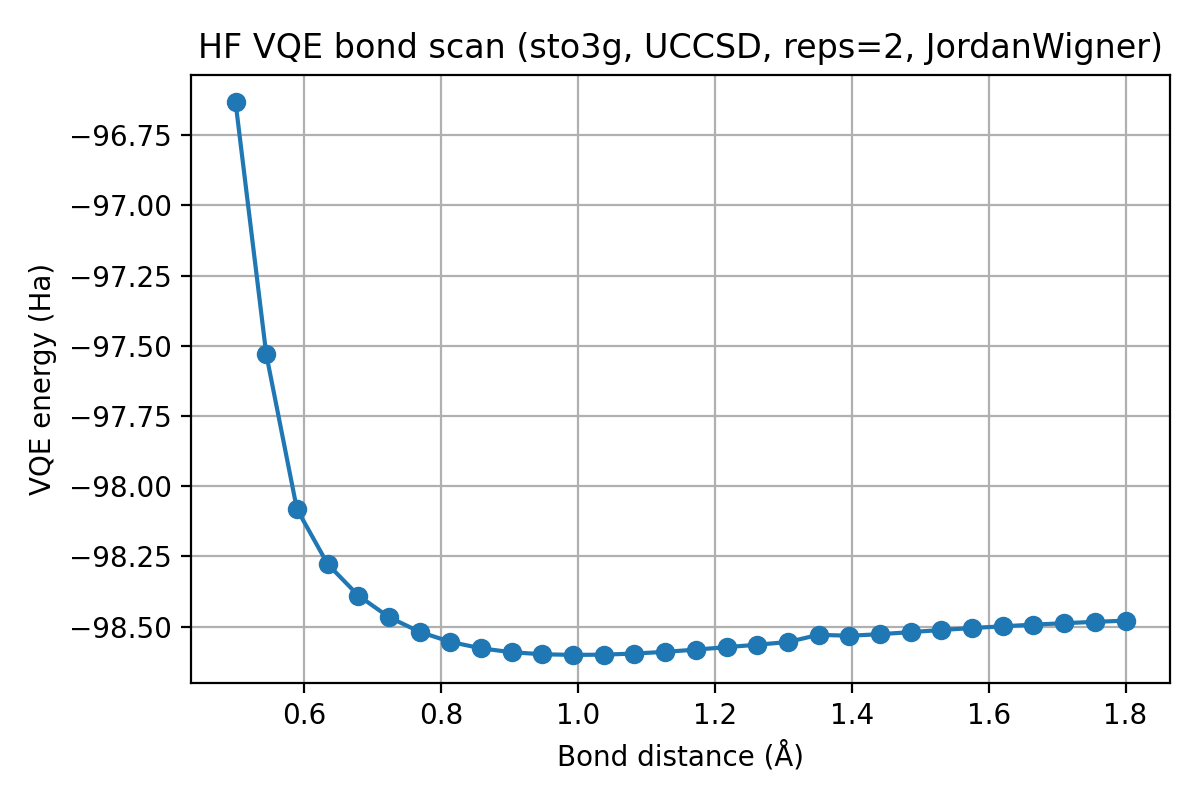
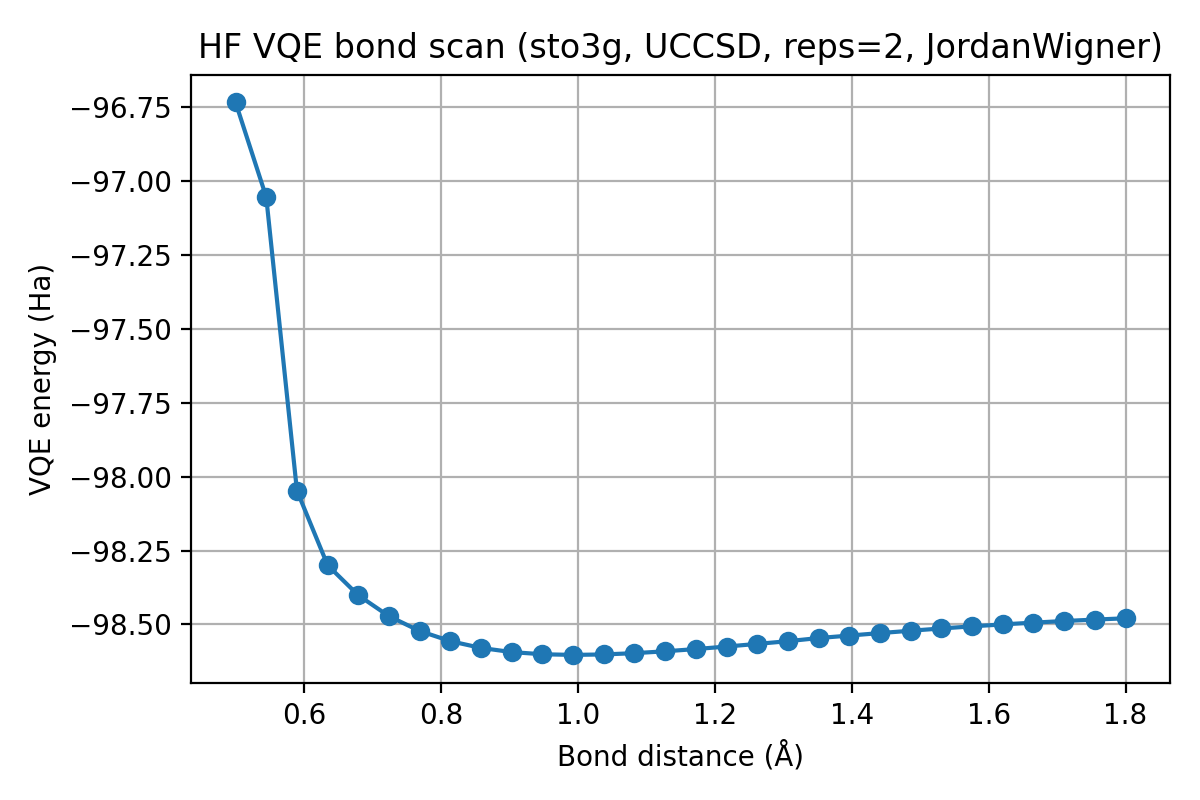
Update HF bond scan parameters for improved accuracy and convergence

diff --git a/modules/jobs.py b/modules/jobs.py
@@ -841,13 +841,13 @@ def run_hf_bond_scan() -> dict[str, Any]:
         "basis": "sto3g",
         "charge": 0,
         "spin": 0,
-        "freeze_core": False,
-        "active_space": (8, 6),
+        "freeze_core": True,
+        "active_space": (8, 5),
         "mapper": "JordanWigner",
         "ansatz_method": "UCCSD",
         "entanglement": "linear",
         "reps": 2,
-        "optimizer_maxiter": 150,
+        "optimizer_maxiter": 500,
         "optimizer_rhobeg": 1.0,
         "optimizer_tol": 1e-6,
         "seed": 42,
